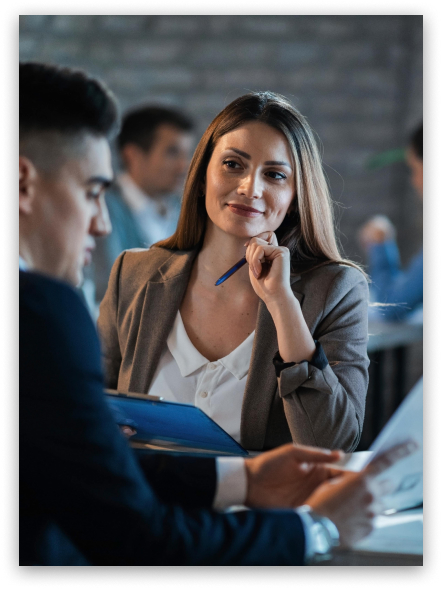
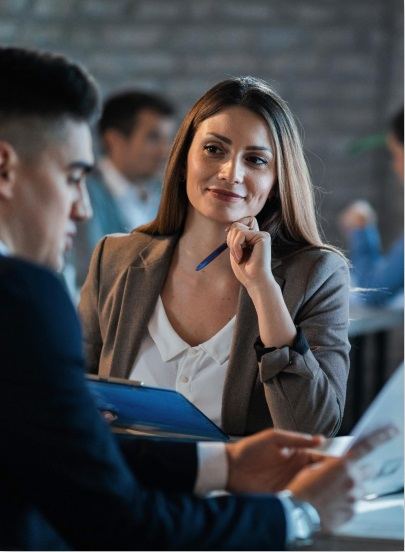
working done

diff --git a/src/Components/Sections/CSS/Services.css b/src/Components/Sections/CSS/Services.css
@@ -36,20 +36,20 @@
 }
 
 .ss1{
-    background-image: url(./Assets/serviceImg.jpg);
+    background-image: url(./Assets/serviceImg1.png);
 }
 
 .ss2{
-    background-image: url(./Assets/serviceImg1.jpg);
+    background-image: url(./Assets/serviceImg2.jpg);
    
 }
 .ss3{
-    background-image: url(./Assets/serviceImg2.jpg);
+    background-image: url(./Assets/serviceImg3.jpg);
 
 }
 
 .ss4{
-    background-image: url(./Assets/serviceImg3.jpg);
+    background-image: url(./Assets/serviceImg4.jpg);
 }
 
 .ServiceContainer{
@@ -111,11 +111,10 @@ text-decoration: underline;
     z-index: 2!important;
     position: absolute;
     background: black;
-    width: 87%;
-    height: 94%;
+    width: 100%!important;
+    height: 100%;
     opacity: 70%;
-    top: 10px;
-    left: 12px;
+   
 }
 
 .ServiceText a.btn {

diff --git a/src/Components/css/Responsive.css b/src/Components/css/Responsive.css
@@ -454,6 +454,8 @@ align-items: center;
 .ServiceSlider{
     padding: 15px!important;
     width: 100%!important;
+    position: relative;
+    right: 20px;
 }
 .Form input{
     text-align: center;
